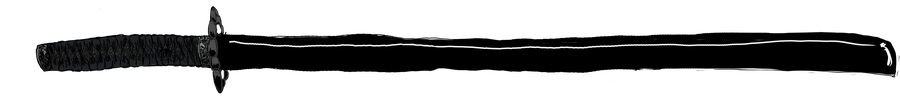
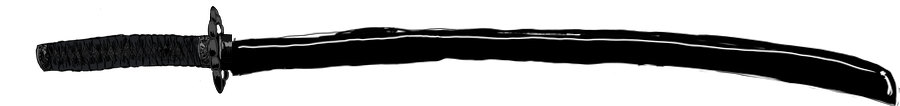
居合の溜めで鯉口から刀身がのぞく。八咫の鞘を描き直してもらった絵に差し替え
Claude-Session: https://claude.ai/code/session_01DBbkqA6r51ZdGarE1tbwyw

Changed region(s): [[0.2178, 0.2547, 1.0, 1.0], [0.2178, 0.6226, 0.2489, 0.6509], [0.2178, 0.2264, 0.2489, 0.2547]]

diff --git a/js/game.js b/js/game.js
@@ -707,9 +707,15 @@ function drawBody(c,x,gy,h,face,J,o){
     if(full) c.drawImage(simg,-KIMG_TSUBA*kk,-KT/2,KL,KT); else { const sx=KIMG_TSUBA+14; c.drawImage(simg,sx,0,KIMG_W-sx,KIMG_H,14*kk,-KT/2,(KIMG_W-sx)*kk,KT); } c.restore(); };
   if(!simg) poly([s1,s2],o.mono||'#1d1512',lw*1.1);
   if(!J.blade){
-    const g=(o.glint||0)*0.05; const m=[s2[0]+dx*g,s2[1]+dy*g];
-    if(g>0) poly([s2,m],o.mono||'#ffffff',lw*0.8);
-    if(simg) sayaAt(m,true);
+    // 居合の溜め: 柄が前へ滑り、鯉口から刀身がのぞく（鞘は腰に残る）
+    const g=(o.glint||0)*0.1; const m=[s2[0]+dx*g,s2[1]+dy*g];
+    if(simg&&g>0) sayaAt(s2,false);
+    if(g>0&&kimg){ const q=M(m), len=Math.max(0,g*h/kk-14); c.save(); c.translate(q[0],q[1]); c.rotate(Math.atan2(-dy,-dx*face)); c.scale(1,face);
+      c.drawImage(kimg,KIMG_TSUBA+14,0,len,KIMG_H,14*kk,-KT/2,len*kk,KT); c.restore(); }
+    else if(g>0) poly([s2,m],o.mono||'#ffffff',lw*0.8);
+    if(simg&&g>0){ const q=M(m); c.save(); c.translate(q[0],q[1]); c.rotate(Math.atan2(-dy,-dx*face)); c.scale(1,face);
+      c.drawImage(simg,0,0,KIMG_TSUBA+14,KIMG_H,-KIMG_TSUBA*kk,-KT/2,(KIMG_TSUBA+14)*kk,KT); c.restore(); }
+    else if(simg) sayaAt(m,true);
     else if(kimg){ const q=M(m); c.save(); c.translate(q[0],q[1]); c.rotate(Math.atan2(-dy,-dx*face)); c.scale(1,face);
       c.drawImage(kimg,0,0,KIMG_TSUBA+14,KIMG_H,-KIMG_TSUBA*kk,-KT/2,(KIMG_TSUBA+14)*kk,KT); c.restore(); }
     else { poly([[m[0]-dy*0.03,m[1]+dx*0.03],[m[0]+dy*0.03,m[1]-dx*0.03]],o.mono||'#8a7436',lw*0.9); poly([m,[m[0]+dx*0.12,m[1]+dy*0.12]],o.mono||'#3b302a',lw*1.05); }
